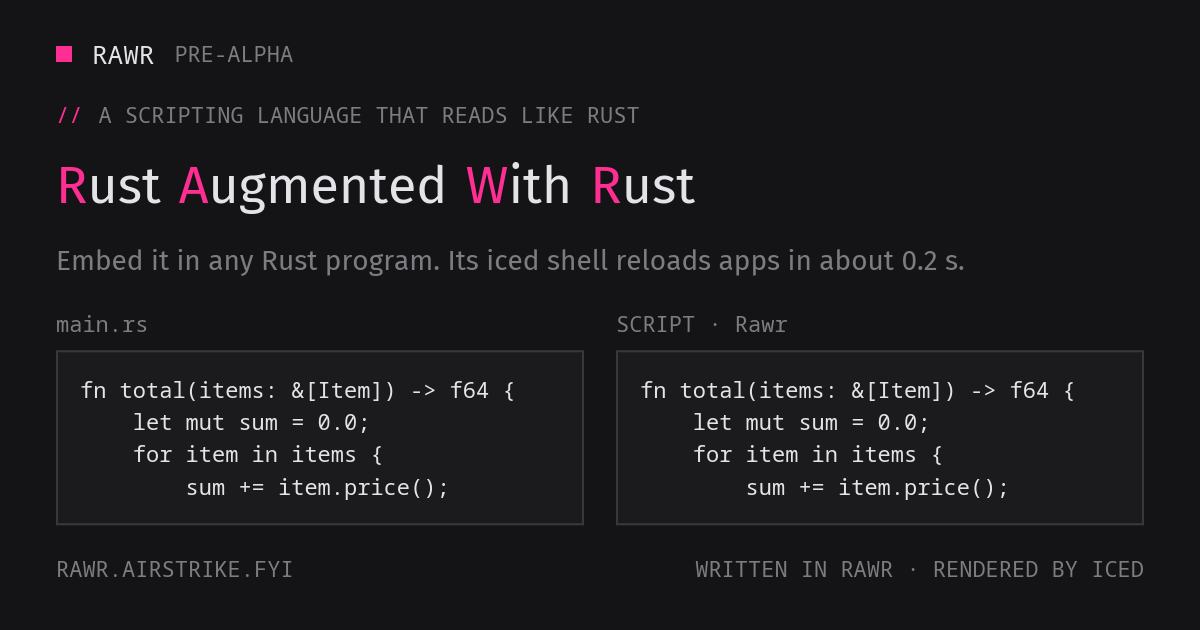
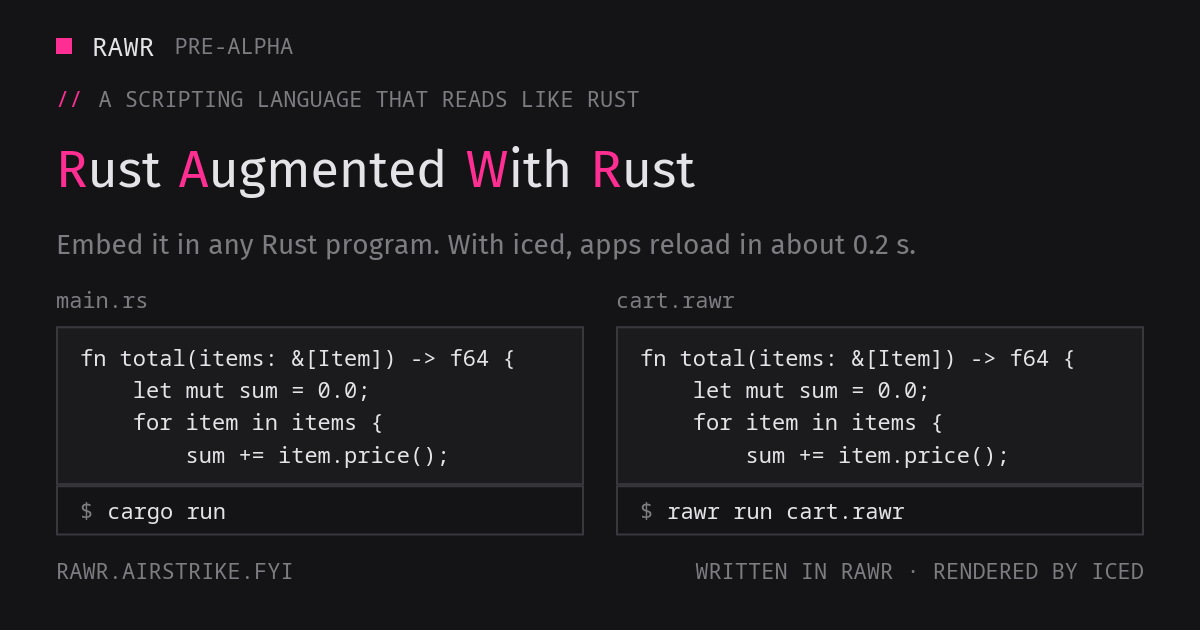
Show the cart as one file run by cargo and by rawr on the site
Both hero panes now hold examples/cart.rawr verbatim, each with a
terminal strip for its command and output. The embedding example
matches examples/cart.rs, rawr-iced is described as a layer brought in
when code uses iced, and the install section says the rawr command
needs the pinned nightly even for plain scripts. The OG card shows each
pane's command.

diff --git a/site/public/index.html b/site/public/index.html
@@ -4,18 +4,18 @@
 <meta charset="UTF-8">
 <meta name="viewport" content="width=device-width, initial-scale=1">
 <title>Rawr: Rust Augmented With Rust</title>
-<meta name="description" content="Rawr is Rust Augmented With Rust: a scripting language that reads like Rust. The rawr crate embeds it in any Rust program on stable Rust; its first shell, rawr-iced, runs native iced apps that reload in about 0.2 s.">
+<meta name="description" content="Rawr is Rust Augmented With Rust: a scripting language that reads like Rust. The rawr crate embeds it in any Rust program on stable Rust; its first layer, rawr-iced, is brought in when your code uses iced and reloads native iced apps in about 0.2 s.">
 <meta property="og:title" content="Rawr: Rust Augmented With Rust">
-<meta property="og:description" content="A scripting language that reads like Rust. Embed it in any Rust program; the rawr-iced shell runs native iced apps. Pre-alpha.">
+<meta property="og:description" content="A scripting language that reads like Rust. Embed it in any Rust program; with iced, the rawr-iced layer reloads native apps. Pre-alpha.">
 <meta property="og:type" content="website">
 <meta property="og:url" content="https://rawr.airstrike.fyi/">
 <meta property="og:image" content="https://rawr.airstrike.fyi/og/card.png">
 <meta property="og:image:width" content="1200">
 <meta property="og:image:height" content="630">
-<meta property="og:image:alt" content="Rawr: Rust Augmented With Rust. The same cart code as Rust and as a Rawr script.">
+<meta property="og:image:alt" content="Rawr: Rust Augmented With Rust. The same cart program run by cargo and by rawr.">
 <meta name="twitter:card" content="summary_large_image">
 <meta name="twitter:title" content="Rawr: Rust Augmented With Rust">
-<meta name="twitter:description" content="A scripting language that reads like Rust. Embed it in any Rust program; the rawr-iced shell runs native iced apps. Pre-alpha.">
+<meta name="twitter:description" content="A scripting language that reads like Rust. Embed it in any Rust program; with iced, the rawr-iced layer reloads native apps. Pre-alpha.">
 <meta name="twitter:image" content="https://rawr.airstrike.fyi/og/card.png">
 <meta name="theme-color" content="#141416">
 <link rel="canonical" href="https://rawr.airstrike.fyi/">
@@ -79,13 +79,17 @@ p code, li code, td code, figcaption code { font-size: 0.88em; color: var(--text
 .file b { font-weight: 400; color: var(--text); }
 .rawr .file b { color: var(--pink); }
 .layer pre { flex: 1; padding: 14px 16px 16px; font-size: 13px; line-height: 1.6; color: var(--code); tab-size: 4; overflow: hidden; white-space: pre; }
-.run { padding: 10px 16px; border-top: 1px solid var(--line); font: 12px/1.5 var(--mono); color: var(--dim); }
-.run b { font-weight: 400; color: var(--text); }
-.run { display: flex; justify-content: space-between; gap: 12px; }
-.run span { color: var(--rose); white-space: nowrap; }
-.run span::before { content: "\2192  "; color: var(--dim); }
+/* A terminal strip under each file: the command, then its output on the next line. */
+.run { padding: 10px 16px 11px; border-top: 1px solid var(--line); background: #0c0c0e; font: 12px/1.6 var(--mono); color: var(--dim); white-space: pre; }
+.run b, .run span { display: block; font-weight: 400; }
+.run b { color: var(--text); }
 .run b::before { content: "$ "; color: var(--dim); }
-.run b.call::before { content: none; }
+.run span { color: var(--rose); }
+.run span.quiet { color: var(--dim); }
+.rawr .run { background: #0e0c10; }
+/* The right-hand file mirrors its name and command to the right edge, so both show at any split. */
+.layer.rawr .file { flex-direction: row-reverse; }
+.layer.rawr .run { text-align: right; }
 .divider { position: absolute; top: 0; bottom: 0; left: var(--pos); width: 0; z-index: 2; }
 .divider::before { content: ""; position: absolute; top: 0; bottom: 0; left: -0.5px; width: 1px; background: var(--pink); }
 .grip { position: absolute; top: 50%; left: 0; width: 36px; height: 36px; transform: translate(-50%, -50%); background: var(--pink); color: var(--bg); border: 0; display: grid; place-items: center; cursor: ew-resize; touch-action: none; font: 15px/1 var(--mono); letter-spacing: -1px; }
@@ -197,18 +201,18 @@ footer .wrap { display: flex; justify-content: space-between; gap: 16px; flex-wr
       <p class="cap"><span class="slash">//</span>A scripting language that reads like Rust</p>
       <h1><span class="ini">R</span>ust <span class="ini">A</span>ugmented <span class="ini">W</span>ith <span class="ini">R</span>ust</h1>
       <p class="lede">Rawr has Rust&rsquo;s structs, enums, traits and <code>match</code>, checked up front with rustc-style errors. Your program stays Rust; the parts you want to change while it runs are written in Rawr.</p>
-      <p class="lede">The <code>rawr</code> crate is the language, and any Rust program can embed it. A shell gives it a domain. The first one, <a href="#iced"><code>rawr-iced</code></a>, runs native <a href="https://github.com/iced-rs/iced">iced</a> apps that reload in about 0.2&nbsp;s.</p>
+      <p class="lede">The <code>rawr</code> crate is the language, and any Rust program can embed it. Layers add a domain on top. The first, <a href="#iced"><code>rawr-iced</code></a>, is brought in when your code uses <a href="https://github.com/iced-rs/iced">iced</a>, and reloads native iced apps in about 0.2&nbsp;s.</p>
       <div class="actions">
         <a class="btn go" href="#install">Install Rawr</a>
-        <a class="btn" href="#iced">See the iced shell</a>
+        <a class="btn" href="#iced">See rawr-iced</a>
       </div>
     </div>
 
-    <figure class="compare intro" style="--pos: 50%" data-left="Rust" data-right="Rawr">
+    <figure class="compare intro" style="--pos: 50%" data-left="main.rs" data-right="cart.rawr">
       <div class="tabs">
         <button type="button" data-to="100" aria-pressed="false" aria-controls="stage-cart">main.rs</button>
         <span class="hint">drag the divider</span>
-        <button type="button" data-to="0" aria-pressed="false" aria-controls="stage-cart">SCRIPT</button>
+        <button type="button" data-to="0" aria-pressed="false" aria-controls="stage-cart">cart.rawr</button>
       </div>
       <div class="scroller">
       <div class="stage" id="stage-cart">
@@ -247,7 +251,7 @@ fn main() {
           <div class="run"><b>cargo run</b><span>total: 27</span></div>
         </div>
         <div class="layer rawr" aria-hidden="true">
-          <div class="file"><b>SCRIPT</b><span>Rawr</span></div>
+          <div class="file"><b>cart.rawr</b><span>Rawr</span></div>
           <pre><code data-lang="rust">enum Item {
     Book { price: f64 },
     Coffee { cups: i64 },
@@ -274,49 +278,48 @@ fn total(items: &amp;[Item]) -&gt; f64 {
     sum
 }
 
-let cart = vec![Item::Book { price: 20.0 }, Item::Coffee { cups: 2 }];
-total(&amp;cart)</code></pre>
-          <div class="run"><b class="call">Engine::new().eval::&lt;f64&gt;(SCRIPT)</b><span>27.0</span></div>
+fn main() {
+    let cart = vec![Item::Book { price: 20.0 }, Item::Coffee { cups: 2 }];
+    println!("total: {}", total(&amp;cart));
+}</code></pre>
+          <div class="run"><b>rawr run cart.rawr</b><span>total: 27</span></div>
         </div>
         <div class="divider">
           <span class="hit" aria-hidden="true"></span>
-          <button type="button" class="grip" role="slider" aria-label="Compare the Rust program and the Rawr script" aria-valuemin="0" aria-valuemax="100" aria-valuenow="50" aria-valuetext="Half Rust, half Rawr" aria-controls="stage-cart"><span aria-hidden="true">&lsaquo;&rsaquo;</span></button>
+          <button type="button" class="grip" role="slider" aria-label="Compare main.rs and cart.rawr" aria-valuemin="0" aria-valuemax="100" aria-valuenow="50" aria-valuetext="50% main.rs, 50% cart.rawr" aria-controls="stage-cart"><span aria-hidden="true">&lsaquo;&rsaquo;</span></button>
         </div>
       </div>
       </div>
       <figcaption>
-        <strong>Spot the difference.</strong> The enum, the trait, the <code>impl</code> and <code>fn total</code> are the same bytes. Only the ending differs: Rust needs a <code>fn main</code> that prints, while a Rawr script runs its statements from the top and hands its last expression back to the Rust program that evaluated it.
-        <small>Left: a complete Rust 2024 program; stable <code>rustc</code> compiles it without warnings and it prints <code>total: 27</code>. Right: the <code>SCRIPT</code> string in <code>examples/cart.rs</code>, which <code>cargo run --example cart</code> evaluates to <code>27</code>.</small>
+        <strong>Spot the difference.</strong> There isn&rsquo;t one. The two files are the same bytes; only the command differs. <code>cargo run</code> builds it as Rust, <code>rawr run</code> runs it as Rawr, and both print <code>total: 27</code>.
+        <small>Right: <code>examples/cart.rawr</code>. Left: the same file copied to <code>src/main.rs</code>; stable <code>rustc</code> (edition 2024) compiles it without warnings.</small>
       </figcaption>
     </figure>
   </div>
 </div>
 
-<section id="shells">
+<section id="layers">
   <div class="wrap sec">
     <div class="side">
-      <p class="cap"><span class="slash">//</span>Shells</p>
-      <h2>A language, then a shell for a domain</h2>
-      <p>The language core knows nothing about windows or widgets. It parses, checks and runs Rawr inside whatever Rust program embeds it.</p>
-      <p>A shell gives it a domain: the types, the commands and the reload loop. <strong>iced is the first shell</strong>; <code>rawr-iced</code> is Rawr for iced apps.</p>
+      <p class="cap"><span class="slash">//</span>Layers</p>
+      <h2>A base language, with layers on top</h2>
+      <p>The base language knows nothing about windows or widgets. It parses, checks and runs Rawr inside whatever Rust program embeds it. <code>rawr run cart.rawr</code> runs on the base alone.</p>
+      <p>A layer adds a domain on top: its types, its commands and a reload loop. <strong>rawr-iced is the first layer</strong>, and <code>rawr</code> brings it in when your code uses iced. More layers can follow.</p>
     </div>
     <div class="stack">
       <table>
-        <tr><td><code>rawr</code></td><td>The language. Embed it in any Rust program with <code>Engine::new().eval</code>. Builds on stable Rust 1.91 or newer.</td></tr>
-        <tr><td><code>rawr-iced</code></td><td>The first shell, for <a href="https://github.com/iced-rs/iced">iced</a> apps: reload on save in about 0.2&nbsp;s, rustc-style errors, your Rust crates imported with no bindings, <code>#[preview]</code> views and PNG snapshots, and the <code>?play</code> bot and playground.</td></tr>
+        <tr><td><code>rawr</code></td><td>The base language. Embed it in any Rust program: compile a file with <code>Engine::compile</code> and call into it with <code>call_fn</code>. Builds on stable Rust 1.91 or newer.</td></tr>
+        <tr><td><code>rawr-iced</code></td><td>The first layer, brought in when your code uses <a href="https://github.com/iced-rs/iced">iced</a>: reload on save in about 0.2&nbsp;s, rustc-style errors, your Rust crates imported with no bindings, <code>#[preview]</code> views and PNG snapshots, and the <code>?play</code> bot and playground.</td></tr>
       </table>
       <div class="block">
         <div class="file"><b>examples/cart.rs</b><span>the host</span></div>
-        <pre><code data-lang="rust">use rawr::Engine;
-
-const SCRIPT: &amp;str = r#"
-… the Rawr script above …
-"#;
+        <pre><code data-lang="rust">//! Rawr embedded: Rust code running a Rust-shaped script.
+use rawr::{Engine, Scope};
 
 fn main() -&gt; Result&lt;(), Box&lt;rawr::EvalAltResult&gt;&gt; {
-    let total = Engine::new().eval::&lt;f64&gt;(SCRIPT)?;
-    println!("total: {total}");
-    Ok(())
+    let engine = Engine::new();
+    let ast = engine.compile(include_str!("cart.rawr"))?;
+    engine.call_fn::&lt;()&gt;(&amp;mut Scope::new(), &amp;ast, "main", ())
 }</code></pre>
         <div class="run"><b>cargo run --example cart</b><span>total: 27</span></div>
       </div>
@@ -330,7 +333,7 @@ fn main() -&gt; Result&lt;(), Box&lt;rawr::EvalAltResult&gt;&gt; {
       <p class="cap"><span class="slash">//</span>Install</p>
       <h2>Install from git</h2>
       <p><strong>The language</strong> is an ordinary crate. It builds on stable Rust 1.91 or newer.</p>
-      <p><strong>The iced shell</strong> is more demanding. It runs on Apple Silicon Macs for now and needs one pinned Rust nightly, <code>nightly-2026-07-11</code>, with the <code>rustc-dev</code> and <code>rust-src</code> components. Rawr builds iced and your own crates with that toolchain too.</p>
+      <p><strong>The <code>rawr</code> command</strong> is more demanding, even for scripts without iced: it carries rawr-iced, runs on Apple Silicon Macs for now, and needs one pinned Rust nightly, <code>nightly-2026-07-11</code>, with the <code>rustc-dev</code> and <code>rust-src</code> components. Rawr builds iced and your own crates with that toolchain too.</p>
     </div>
     <div>
       <div class="group">
@@ -338,16 +341,16 @@ fn main() -&gt; Result&lt;(), Box&lt;rawr::EvalAltResult&gt;&gt; {
         <div class="cmds">
           <div class="cmd"><pre><code>cargo add --git https://github.com/airstrike/rawr rawr</code></pre><button type="button" class="copy">Copy</button></div>
         </div>
-        <p class="note">Then <code>Engine::new().eval::&lt;T&gt;(script)</code>, as in <code>examples/cart.rs</code> above.</p>
+        <p class="note">Then compile a file and call its <code>main</code>, as <code>examples/cart.rs</code> does above.</p>
       </div>
       <div class="group">
-        <p class="cap">The iced shell: toolchain, CLI and import driver</p>
+        <p class="cap">The rawr command: toolchain, CLI and import driver</p>
         <div class="cmds">
           <div class="cmd"><pre><code>rustup toolchain install nightly-2026-07-11 --component rustc-dev,rust-src</code></pre><button type="button" class="copy">Copy</button></div>
           <div class="cmd"><pre><code>cargo +nightly-2026-07-11 install --locked --git https://github.com/airstrike/rawr rawr-cli</code></pre><button type="button" class="copy">Copy</button></div>
           <div class="cmd"><pre><code>cargo +nightly-2026-07-11 install --locked --git https://github.com/airstrike/rawr rawr-import --features rustc-driver</code></pre><button type="button" class="copy">Copy</button></div>
         </div>
-        <p class="note"><code>rawr-cli</code> installs <code>rawr</code>. <code>rawr-import</code> installs <code>rawr-import-driver</code> next to it, which reads your Rust crates for imports. The first <code>rawr run</code> compiles iced, so it takes a few minutes; later launches reuse that build.</p>
+        <p class="note"><code>rawr-cli</code> installs <code>rawr</code>. <code>rawr-import</code> installs <code>rawr-import-driver</code> next to it, which reads your Rust crates for imports. The first <code>rawr run</code> of an iced app compiles iced, so it takes a few minutes; later launches reuse that build. A script without iced runs once and exits, with no build and no hot reload.</p>
       </div>
       <div class="group">
         <p class="cap">Start an iced project</p>
@@ -363,9 +366,9 @@ fn main() -&gt; Result&lt;(), Box&lt;rawr::EvalAltResult&gt;&gt; {
 <section id="iced">
   <div class="wrap sec">
     <div class="side">
-      <p class="cap"><span class="slash">//</span>The iced shell</p>
+      <p class="cap"><span class="slash">//</span>rawr-iced</p>
       <h2>Write iced. Reload it like a script.</h2>
-      <p><code>rawr-iced</code> runs native iced apps written in Rawr, with the same <code>impl Widget&lt;Message&gt;</code>, the same <code>column![]</code>, the same <code>match</code>, against iced master.</p>
+      <p>When your code uses iced, <code>rawr</code> brings in <code>rawr-iced</code> on top of the base language. It runs native iced apps written in Rawr, with the same <code>impl Widget&lt;Message&gt;</code>, the same <code>column![]</code>, the same <code>match</code>, against iced master.</p>
       <p>Save a <code>.rawr</code> file and <code>rawr run</code> reloads it in about 0.2&nbsp;s. The window stays open and keeps its state.</p>
     </div>
       <figure class="compare" style="--pos: 50%" data-left="main.rs" data-right="main.rawr">
@@ -418,7 +421,7 @@ impl Counter {
         .align_x(Center)
     }
 }</code></pre>
-            <div class="run"><b>cargo run</b></div>
+            <div class="run"><b>cargo run</b><span class="quiet">(opens a window)</span></div>
           </div>
           <div class="layer rawr" aria-hidden="true">
             <div class="file"><b>src/main.rawr</b><span>Rawr</span></div>
@@ -462,7 +465,7 @@ impl Counter {
         .align_x(Center)
     }
 }</code></pre>
-            <div class="run"><b>rawr run</b></div>
+            <div class="run"><b>rawr run</b><span class="quiet">(opens a window)</span></div>
           </div>
           <div class="divider">
             <span class="hit" aria-hidden="true"></span>
@@ -481,12 +484,12 @@ impl Counter {
 <section>
   <div class="wrap sec">
     <div class="side">
-      <p class="cap"><span class="slash">//</span>iced shell &middot; Commands</p>
+      <p class="cap"><span class="slash">//</span>rawr-iced &middot; Commands</p>
       <h2>One command for each part of the loop</h2>
       <p>Everything works on a project directory or a single file. Run <code>rawr --help</code> for the full grammar.</p>
     </div>
     <table>
-      <tr><td><code>rawr run</code></td><td>Opens the app. Saving a <code>.rawr</code> file reloads it in place; changing your Rust crates rebuilds them natively.</td></tr>
+      <tr><td><code>rawr run</code></td><td>Runs a script once on the base language; with iced, opens the app. Saving a <code>.rawr</code> file reloads it in place; changing your Rust crates rebuilds them natively.</td></tr>
       <tr><td><code>rawr check</code></td><td>Type-checks without a window and reports errors the way rustc does.</td></tr>
       <tr><td><code>rawr check --as-rust</code></td><td>Copies the project under <code>target/</code> with <code>.rawr</code> renamed to <code>.rs</code> and runs <code>cargo check</code> on it.</td></tr>
       <tr><td><code>rawr preview</code></td><td>Opens a view marked <code>#[preview]</code> on its own. &larr; and &rarr; step through a group.</td></tr>
@@ -500,7 +503,7 @@ impl Counter {
 <section>
   <div class="wrap sec">
     <div class="side">
-      <p class="cap"><span class="slash">//</span>iced shell &middot; Diagnostics</p>
+      <p class="cap"><span class="slash">//</span>rawr-iced &middot; Diagnostics</p>
       <h2>Errors you already know how to read</h2>
       <p>Delete the <code>Decrement</code> arm from the counter and <code>rawr check</code> answers the way rustc would: the code, the span, and what is missing.</p>
     </div>
@@ -520,7 +523,7 @@ impl Counter {
 <section>
   <div class="wrap sec">
     <div class="side">
-      <p class="cap"><span class="slash">//</span>iced shell &middot; Rust imports</p>
+      <p class="cap"><span class="slash">//</span>rawr-iced &middot; Rust imports</p>
       <h2>Your own Rust crates, with no bindings</h2>
       <p>List a crate in <code>rawr.toml</code> and <code>use</code> it. Rawr reads only the items your code touches, so a custom native widget in a Cargo crate is just another widget.</p>
       <p>This is <code>gallery_ui::Dial</code> from RawrGallery, an ordinary iced <code>Widget</code> written in Rust and driven from <code>dial.rawr</code>.</p>
@@ -550,7 +553,7 @@ let face = container(Dial::new(self.value, Message::Turn).range(0..=100))
 <section>
   <div class="wrap sec">
     <div class="side">
-      <p class="cap"><span class="slash">//</span>iced shell &middot; ?play</p>
+      <p class="cap"><span class="slash">//</span>rawr-iced &middot; ?play</p>
       <h2>Render a snippet in Discord</h2>
       <p>In a Discord channel where the bot is turned on, write <code>?play</code> over a code block with a view or a whole app, and it replies with the frame. The playground does the same in a browser, nothing to install.</p>
       <div class="actions" style="display:flex;flex-wrap:wrap;gap:12px;margin-top:24px">
@@ -583,7 +586,7 @@ use iced::widget::{Widget, button, column, text};
       <h2>Pre-alpha, plainly</h2>
     </div>
     <div>
-      <p class="status">Rawr is early. The language crate builds on stable Rust. The iced shell runs on Apple Silicon Macs, follows iced master, and pins one nightly. APIs, commands, file formats and error codes will change without notice.</p>
+      <p class="status">Rawr is early. The language crate builds on stable Rust. The <code>rawr</code> command runs on Apple Silicon Macs, rawr-iced follows iced master, and both pin one nightly. APIs, commands, file formats and error codes will change without notice.</p>
       <p class="status">It covers a lot of Rust but not all of it. When Rawr rejects valid Rust that it claims to cover, that is a bug, and a small reproduction is the most useful report.</p>
     </div>
   </div>

diff --git a/site/og/card.rs b/site/og/card.rs
@@ -1,6 +1,6 @@
 // The link preview for rawr.airstrike.fyi, drawn by Rawr itself in
 // RawrGallery's Ink sheet. Render it with:
-//   rawr-play site/og/card.rs --size 600x315 -o site/public/og/card.png
+//   rawr-play site/og/card.rs --size 600x315 --fonts target/play/fonts -o site/public/og/card.png
 use iced::theme::palette::Seed;
 use iced::widget::{column, container, row, space, text};
 use iced::{Border, Center, Color, Fill, Font, Theme, Widget, border};
@@ -50,7 +50,7 @@ impl Card {
             .spacing(8),
             row![word("R", "ust"), word("A", "ugmented"), word("W", "ith"), word("R", "ust")]
                 .spacing(9),
-            text("Embed it in any Rust program. Its iced shell reloads apps in about 0.2 s.")
+            text("Embed it in any Rust program. With iced, apps reload in about 0.2 s.")
                 .size(14)
                 .style(text::secondary),
         ]
@@ -60,16 +60,16 @@ impl Card {
             column![
                 brand,
                 lede,
-                row![file("main.rs"), file("SCRIPT · Rawr")].spacing(16),
+                row![file("main.rs", "cargo run"), file("cart.rawr", "rawr run cart.rawr")].spacing(16),
                 row![
                     caption("RAWR.AIRSTRIKE.FYI"),
                     space().width(Fill),
                     caption("WRITTEN IN RAWR · RENDERED BY ICED"),
                 ],
             ]
-            .spacing(14),
+            .spacing(10),
         )
-        .padding([18, 28])
+        .padding([14, 28])
         .width(Fill)
         .height(Fill)
     }
@@ -83,25 +83,31 @@ fn word(initial: &str, rest: &str) -> impl Widget<Message> {
     ]
 }
 
-/// The same cart code as Rust and as Rawr: the joke is that both read alike.
-fn file(name: &str) -> impl Widget<Message> {
-    column![
-        caption(name),
-        container(
-            column![
-                code("fn total(items: &[Item]) -> f64 {"),
-                code("    let mut sum = 0.0;"),
-                code("    for item in items {"),
-                code("        sum += item.price();"),
-            ]
-            .spacing(1),
-        )
-        .padding(12)
-        .width(Fill)
-        .style(panel),
-    ]
-    .spacing(6)
+/// The same cart file as Rust and as Rawr: only the command differs.
+fn file(name: &str, command: &str) -> impl Widget<Message> {
+    let source = container(
+        column![
+            code("fn total(items: &[Item]) -> f64 {"),
+            code("    let mut sum = 0.0;"),
+            code("    for item in items {"),
+            code("        sum += item.price();"),
+        ]
+        .spacing(1),
+    )
+    .padding([8, 12])
     .width(Fill)
+    .style(panel);
+    let shell = container(
+        row![text("$").size(11).font(Font::MONOSPACE).style(text::secondary), code(command)]
+            .spacing(7),
+    )
+    .padding([5, 12])
+    .width(Fill)
+    .style(terminal);
+
+    column![caption(name), column![source, shell]]
+        .spacing(6)
+        .width(Fill)
 }
 
 fn code(line: &str) -> iced::widget::Text<'static> {
@@ -120,5 +126,13 @@ fn panel(theme: &Theme) -> container::Style {
     let palette = theme.palette();
     container::Style::default()
         .background(palette.background.weakest.color)
+        .border(frame(palette.background.strong.color))
+}
+
+/// The terminal strip under each file: the command that runs it.
+fn terminal(theme: &Theme) -> container::Style {
+    let palette = theme.palette();
+    container::Style::default()
+        .background(palette.background.base.color)
         .border(frame(palette.background.strong.color))
 }
